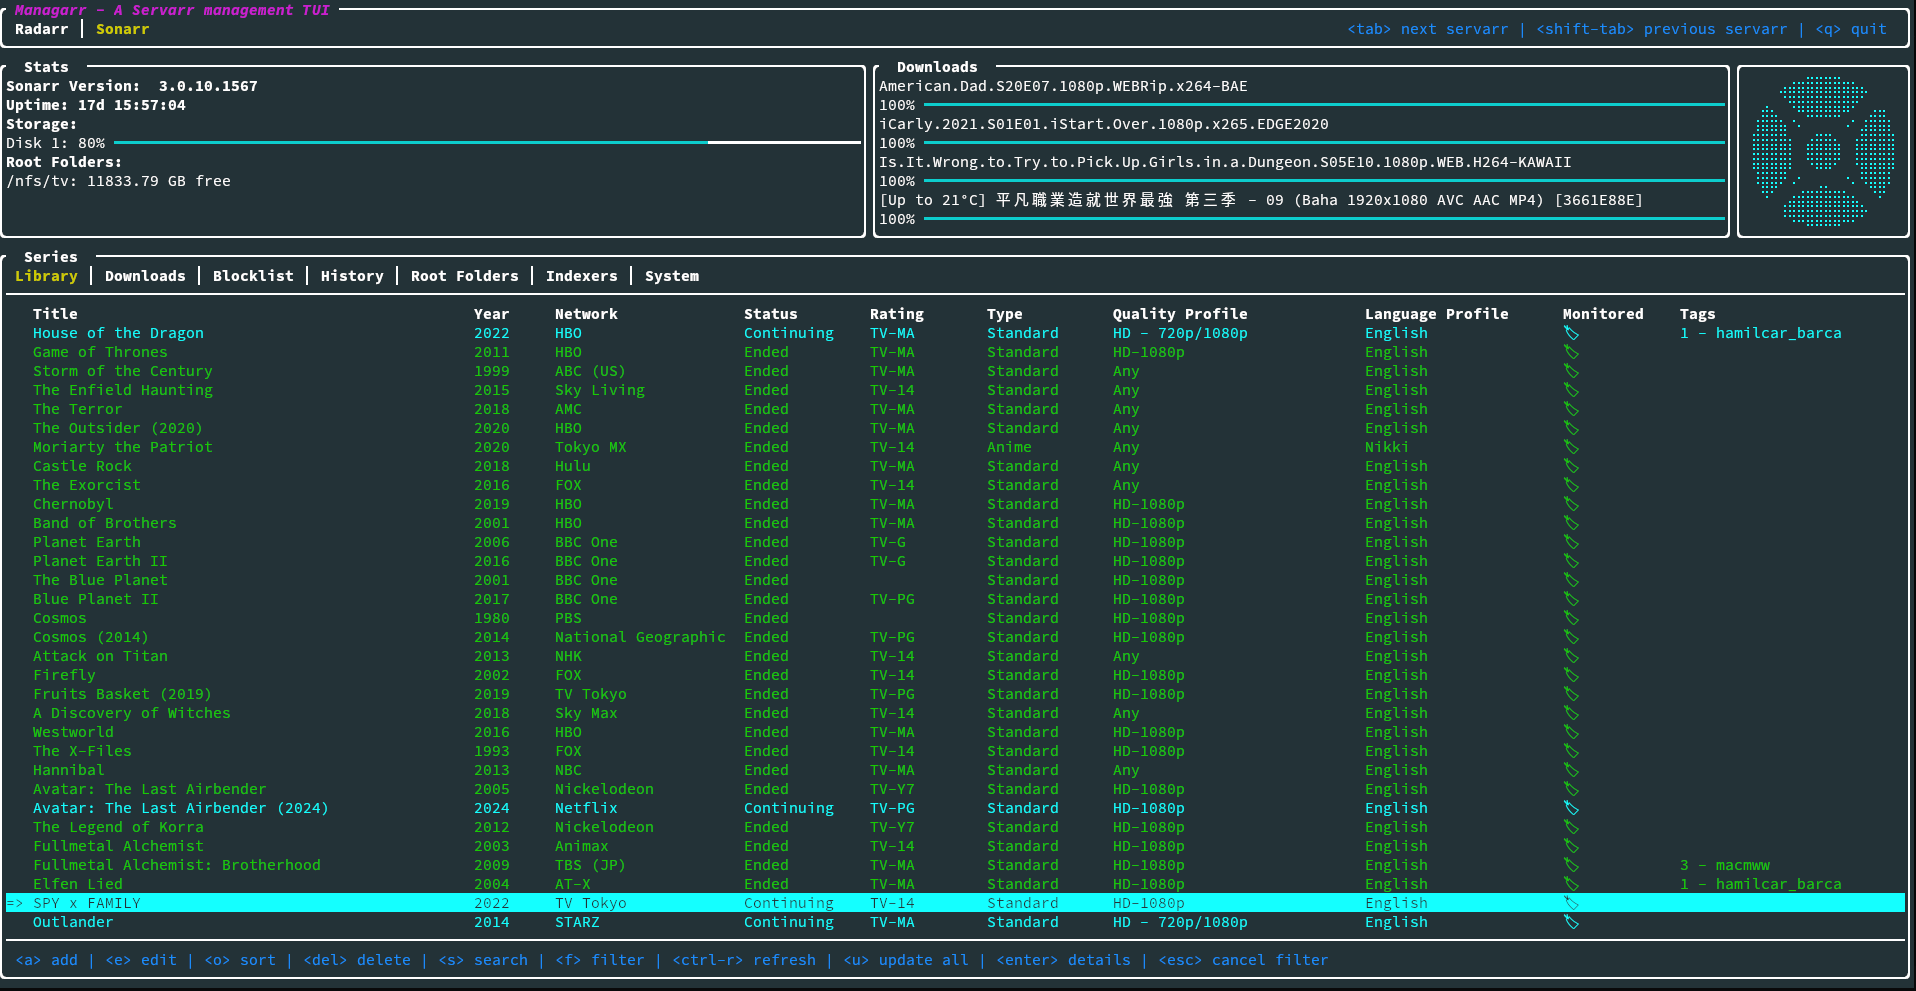
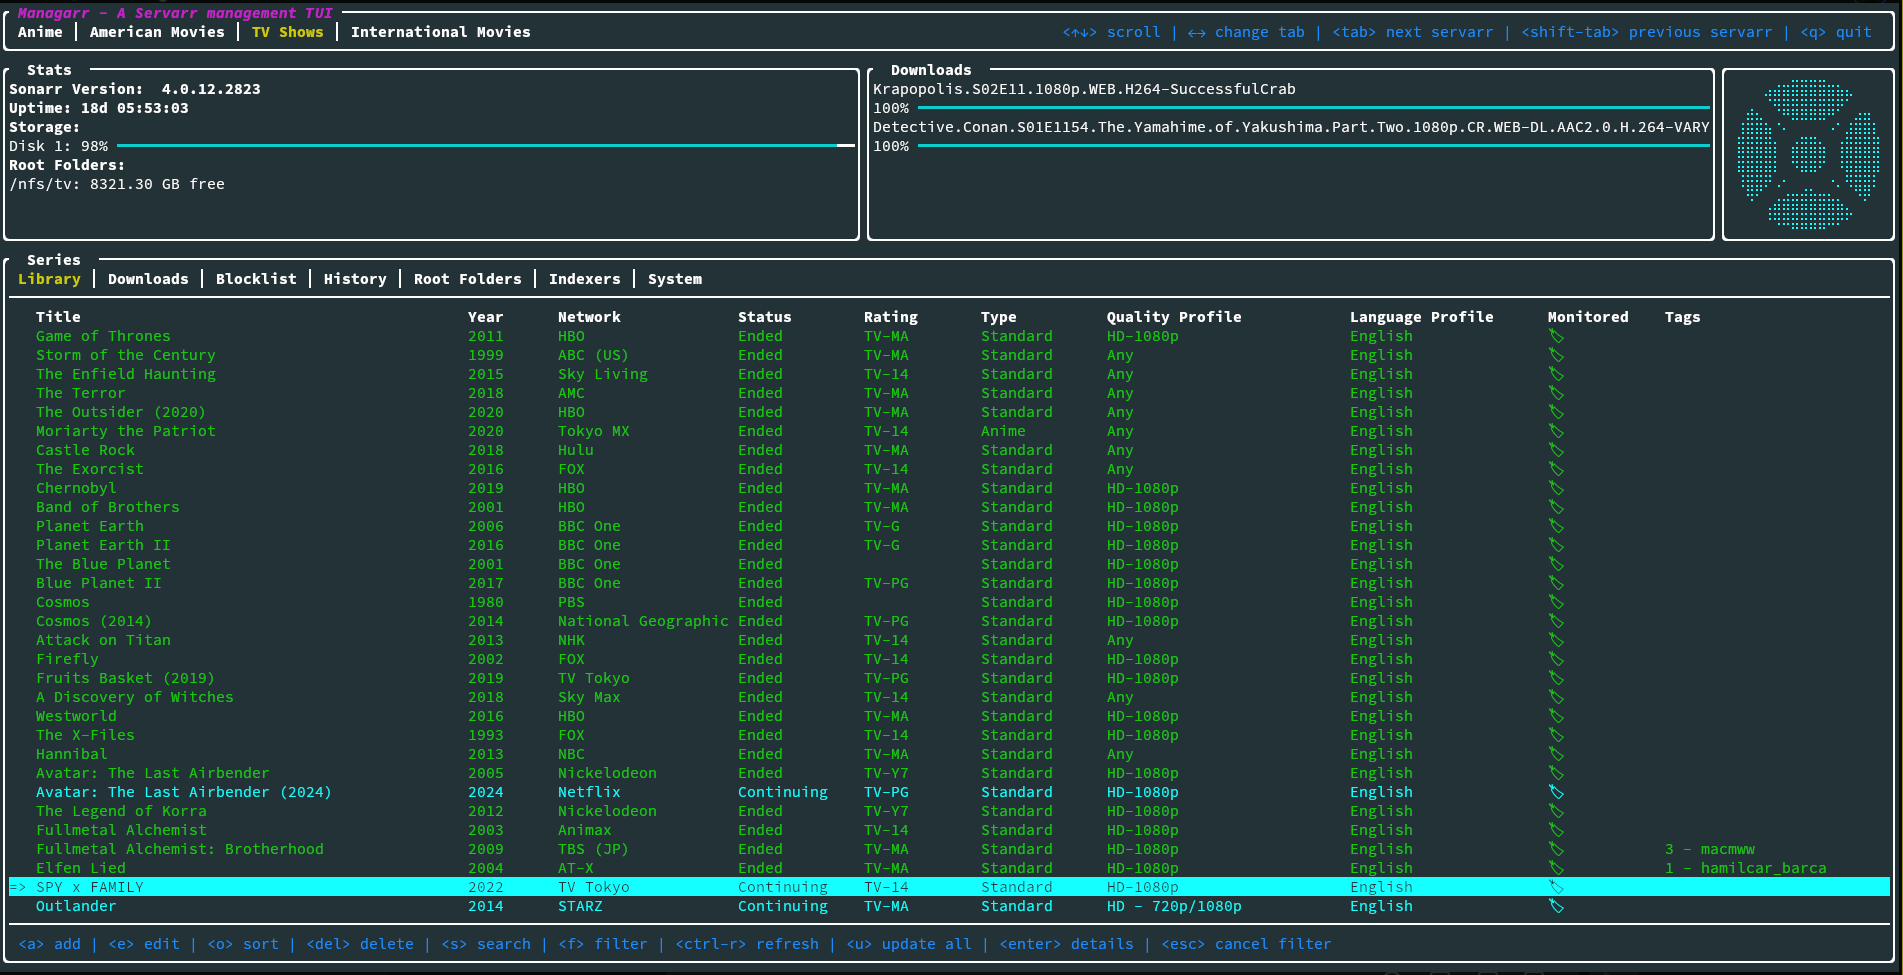
feat: CLI Support for multiple Servarr instances

Changed region(s): [[0.0, 0.0, 1.0, 1.0]]

diff --git a/src/models/model_tests.rs b/src/models/model_tests.rs
@@ -537,6 +537,78 @@ mod tests {
 
     assert!(active_config.is_none());
   }
+  
+  #[test]
+  fn test_select_tab_by_title() {
+    let tabs = create_test_tab_routes();
+    let mut tab_state = TabState { tabs, index: 0 };
+
+    let result = tab_state.select_tab_by_title("Test 2");
+
+    assert!(result);
+    assert_eq!(tab_state.index, 1);
+
+    let result = tab_state.select_tab_by_title("Not real");
+
+    assert!(!result);
+    assert_eq!(tab_state.index, 1);
+  }
+  
+  #[test]
+  fn test_select_tab_by_title_empty_tabs_returns_false() {
+    let mut tab_state = TabState { tabs: vec![], index: 0 };
+    
+    let result = tab_state.select_tab_by_title("Test 2");
+    
+    assert!(!result);
+    assert_eq!(tab_state.index, 0);
+  }
+  
+  #[test]
+  fn test_select_tab_by_config() {
+    let mut tabs = create_test_tab_routes();
+    tabs[0].config = Some(ServarrConfig {
+      name: Some("Test 1".to_owned()),
+      ..ServarrConfig::default()
+    });
+    tabs[1].config = Some(ServarrConfig {
+      host: Some("http://localhost".to_owned()),
+      port: Some(7878),
+      ..ServarrConfig::default()
+    });
+    let mut tab_state = TabState { tabs, index: 0 };
+    
+    let result = tab_state.select_tab_by_config(&ServarrConfig {
+      host: Some("http://localhost".to_owned()),
+      port: Some(7878),
+      ..ServarrConfig::default()
+    });
+    
+    assert!(result);
+    assert_eq!(tab_state.index, 1);
+    
+    let result = tab_state.select_tab_by_config(&ServarrConfig {
+      name: Some("Not real".to_owned()),
+      ..ServarrConfig::default()
+    });
+    
+    assert!(!result);
+    assert_eq!(tab_state.index, 1);
+  }
+  
+  #[test]
+  fn test_select_tab_by_config_empty_tabs_returns_false() {
+    let mut tab_state = TabState { tabs: vec![], index: 0 };
+    
+    let result = tab_state.select_tab_by_config(&ServarrConfig {
+      host: Some("http://localhost".to_owned()),
+      port: Some(7878),
+      ..ServarrConfig::default()
+    });
+    
+    assert!(!result);
+    assert_eq!(tab_state.index, 0);
+  }
 
   #[test]
   fn test_tab_state_get_active_tab_help() {

diff --git a/src/utils.rs b/src/utils.rs
@@ -227,7 +227,11 @@ pub(super) async fn start_cli_with_spinner(
   command: Command,
 ) {
   config.verify_config_present_for_cli(&command);
-  app.lock().await.cli_mode = true;
+  {
+    let mut app = app.lock().await;
+    app.cli_mode = true;
+    select_cli_configuration(&mut app, &config, &command, None);
+  }
   let pb = render_spinner();
   let app_nw = Arc::clone(&app);
   let mut network = Network::new(&app_nw, cancellation_token, reqwest_client);
@@ -252,7 +256,11 @@ pub(super) async fn start_cli_no_spinner(
   command: Command,
 ) {
   config.verify_config_present_for_cli(&command);
-  app.lock().await.cli_mode = true;
+  {
+    let mut app = app.lock().await;
+    app.cli_mode = true;
+    select_cli_configuration(&mut app, &config, &command, None);
+  }
   let app_nw = Arc::clone(&app);
   let mut network = Network::new(&app_nw, cancellation_token, reqwest_client);
   match cli::handle_command(&app, command, &mut network).await {
@@ -262,6 +270,28 @@ pub(super) async fn start_cli_no_spinner(
     Err(e) => {
       eprintln!("error: {}", e.to_string().red());
       process::exit(1);
+    }
+  }
+}
+
+pub fn select_cli_configuration(app: &mut App<'_>, config: &AppConfig, command: &Command, servarr_name_arg: Option<String>) {
+  if let Some(servarr_name) = servarr_name_arg {
+    let trimmed_name = servarr_name.trim();
+    if !app.server_tabs.select_tab_by_title(trimmed_name) {
+      log_and_print_error(format!("A Servarr titled '{}' was not found in your configuration file", trimmed_name));
+      process::exit(1);
+    }
+  } else {
+    match command {
+      Command::Radarr(_) => {
+        let default_radarr_config = config.radarr.as_ref().unwrap()[0].clone();
+        app.server_tabs.select_tab_by_config(&default_radarr_config);
+      },
+      Command::Sonarr(_) => {
+        let default_sonarr_config = config.sonarr.as_ref().unwrap()[0].clone();
+        app.server_tabs.select_tab_by_config(&default_sonarr_config);
+      },
+      _ => ()
     }
   }
 }

diff --git a/src/main.rs b/src/main.rs
@@ -73,7 +73,15 @@ struct Cli {
     env = "MANAGARR_CONFIG_FILE",
     help = "The Managarr configuration file to use"
   )]
-  config: Option<PathBuf>,
+  config_file: Option<PathBuf>,
+  #[arg(
+    long,
+    global = true,
+    help = "For multi-instance configurations, you need to specify the name of the instance configuration that you want to use.
+    This is useful when you have multiple instances of the same Servarr defined in your config file.
+    By default, if left empty, the first configured Servarr instance listed in the config file will be used."
+  )]
+  servarr_name: Option<String>,
 }
 
 #[tokio::main]
@@ -85,7 +93,7 @@ async fn main() -> Result<()> {
   let running = Arc::new(AtomicBool::new(true));
   let r = running.clone();
   let args = Cli::parse();
-  let mut config = if let Some(ref config_file) = args.config {
+  let mut config = if let Some(ref config_file) = args.config_file {
     load_config(config_file.to_str().expect("Invalid config file specified"))?
   } else {
     confy::load("managarr", "config")?
@@ -111,7 +119,7 @@ async fn main() -> Result<()> {
     config.clone(),
     cancellation_token.clone(),
   )));
-
+  
   match args.command {
     Some(command) => match command {
       Command::Radarr(_) | Command::Sonarr(_) => {

diff --git a/src/models/mod.rs b/src/models/mod.rs
@@ -303,7 +303,39 @@ impl TabState {
     
     &self.tabs[self.index].config
   }
-
+  
+  pub fn select_tab_by_title(&mut self, name: &str) -> bool {
+    if !self.tabs.is_empty() {
+      let mut found = false;
+      self.tabs.iter().enumerate().for_each(|(idx, tab)| {
+        if tab.title == name {
+          self.index = idx;
+          found = true;
+        }
+      });
+      
+      return found;
+    }
+    
+    false
+  }
+  
+  pub fn select_tab_by_config(&mut self, config: &ServarrConfig) -> bool {
+    if !self.tabs.is_empty() {
+      let mut found = false;
+      self.tabs.iter().enumerate().for_each(|(idx, tab)| {
+        if tab.config == Some(config.clone()) {
+          self.index = idx;
+          found = true;
+        }
+      });
+      
+      return found;
+    }
+    
+    false
+  }
+  
   pub fn get_active_tab_help(&self) -> &str {
     &self.tabs[self.index].help
   }

diff --git a/src/app/mod.rs b/src/app/mod.rs
@@ -65,7 +65,7 @@ impl App<'_> {
           idx+=1;
           format!("Radarr {}", idx)
         };
-        
+
         server_tabs.push(TabRoute {
           title: name,
           route: ActiveRadarrBlock::Movies.into(),
@@ -78,7 +78,7 @@ impl App<'_> {
 
     if let Some(sonarr_configs) = config.sonarr {
       let mut idx = 0;
-      
+
       for sonarr_config in sonarr_configs {
         let name = if let Some(name) = sonarr_config.name.clone() {
           name
@@ -86,7 +86,7 @@ impl App<'_> {
           idx+=1;
           format!("Sonarr {}", idx)
         };
-        
+
         server_tabs.push(TabRoute {
           title: name,
           route: ActiveSonarrBlock::Series.into(),

diff --git a/README.md b/README.md
@@ -216,7 +216,7 @@ To see all available commands, simply run `managarr --help`:
 
 ```shell
 $ managarr --help
-managarr 0.4.0
+managarr 0.4.2
 Alex Clarke <alex.j.tusa@gmail.com>
 
 A TUI and CLI to manage your Servarrs
@@ -231,10 +231,13 @@ Commands:
   help         Print this message or the help of the given subcommand(s)
 
 Options:
-      --disable-spinner  Disable the spinner (can sometimes make parsing output challenging) [env: MANAGARR_DISABLE_SPINNER=]
-      --config <CONFIG>  The Managarr configuration file to use [env: MANAGARR_CONFIG_FILE=]
-  -h, --help             Print help
-  -V, --version          Print version
+      --disable-spinner              Disable the spinner (can sometimes make parsing output challenging) [env: MANAGARR_DISABLE_SPINNER=]
+      --config-file <CONFIG_FILE>    The Managarr configuration file to use [env: MANAGARR_CONFIG_FILE=]
+      --servarr-name <SERVARR_NAME>  For multi-instance configurations, you need to specify the name of the instance configuration that you want to use.
+                                         This is useful when you have multiple instances of the same Servarr defined in your config file.
+                                         By default, if left empty, the first configured Servarr instance listed in the config file will be used.
+  -h, --help                         Print help
+  -V, --version                      Print version
 ```
 
 All subcommands also have detailed help menus to show you how to use them. For example, to see all available commands for Sonarr, you would run:
@@ -311,39 +314,82 @@ managarr --config /path/to/config.yml
 ### Example Configuration:
 ```yaml
 radarr:
-  host: 192.168.0.78
-  port: 7878
-  api_token: someApiToken1234567890
-  ssl_cert_path: /path/to/radarr.crt # Required to enable SSL
+  - host: 192.168.0.78
+    port: 7878
+    api_token: someApiToken1234567890
+    ssl_cert_path: /path/to/radarr.crt # Required to enable SSL
 sonarr:
-  uri: http://htpc.local/sonarr # Example of using the 'uri' key instead of 'host' and 'port'
-  api_token: someApiToken1234567890
+  - uri: http://htpc.local/sonarr # Example of using the 'uri' key instead of 'host' and 'port'
+    api_token: someApiToken1234567890
+    
+  - name: Anime Sonarr # An example of a custom name for a secondary Sonarr instance
+    host: 192.168.0.89
+    port: 8989
+    api_token: someApiToken1234567890
 readarr:
-  host: 192.168.0.87 
-  port: 8787
-  api_token_file: /root/.config/readarr_api_token # Example of loading the API token from a file instead of hardcoding it in the configuration file
+  - host: 192.168.0.87 
+    port: 8787
+    api_token_file: /root/.config/readarr_api_token # Example of loading the API token from a file instead of hardcoding it in the configuration file
 lidarr:
-  host: 192.168.0.86
-  port: 8686
-  api_token: ${MY_LIDARR_API_TOKEN} # Example of configuring using environment variables
+  - host: 192.168.0.86
+    port: 8686
+    api_token: ${MY_LIDARR_API_TOKEN} # Example of configuring using environment variables
 whisparr:
-  host: 192.168.0.69
-  port: 6969
-  api_token: someApiToken1234567890
-  ssl_cert_path: /path/to/whisparr.crt
+  - host: 192.168.0.69
+    port: 6969
+    api_token: someApiToken1234567890
+    ssl_cert_path: /path/to/whisparr.crt
 bazarr:
-  host: 192.168.0.67
-  port: 6767
-  api_token: someApiToken1234567890
+  - host: 192.168.0.67
+    port: 6767
+    api_token: someApiToken1234567890
 prowlarr:
-  host: 192.168.0.96
-  port: 9696
-  api_token: someApiToken1234567890
+  - host: 192.168.0.96
+    port: 9696
+    api_token: someApiToken1234567890
 tautulli:
-  host: 192.168.0.81
-  port: 8181
-  api_token: someApiToken1234567890
+  - host: 192.168.0.81
+    port: 8181
+    api_token: someApiToken1234567890
 ```
+
+### Example Multi-Instance Configuration:
+```yaml
+radarr:
+  - host: 192.168.0.78 # No name specified, so this instance's name will default to 'Radarr 1'
+    port: 7878
+    api_token: someApiToken1234567890
+    ssl_cert_path: /path/to/radarr.crt # Required to enable SSL
+    
+  - name: International Movies
+    host: 192.168.0.79
+    port: 7878
+    api_token: someApiToken1234567890
+sonarr:
+  - name: Anime
+    weight: 1 # This instance will be the first tab in the TUI
+    uri: http://htpc.local/sonarr
+    api_token: someApiToken1234567890
+
+  - name: TV Shows
+    weight: 2 # This instance will be the second tab in the TUI
+    host: 192.168.0.89
+    port: 8989
+    api_token: someApiToken1234567890
+```
+
+In this configuration, you can see that we have multiple instances of Radarr and Sonarr configured. The `weight` key is 
+used to specify the order in which the tabs will appear in the TUI. The lower the weight, the further to the left the 
+tab will appear. If no weight is specified, then tabs will be ordered in the order they appear in the configuration 
+file.
+
+When no `name` is specified for a Servarr instance, the name will default to the name of the Servarr with a number 
+appended to it. For example, if you have two Radarr instances and neither has a name, they will be named `Radarr 1` and 
+`Radarr 2`, respectively.
+
+In this example configuration, the tabs in the TUI would appear as follows:
+
+`Anime | TV Shows | Radarr 1 | International Movies`
 
 ## Environment Variables
 Managarr supports using environment variables on startup so you don't have to always specify certain flags:
